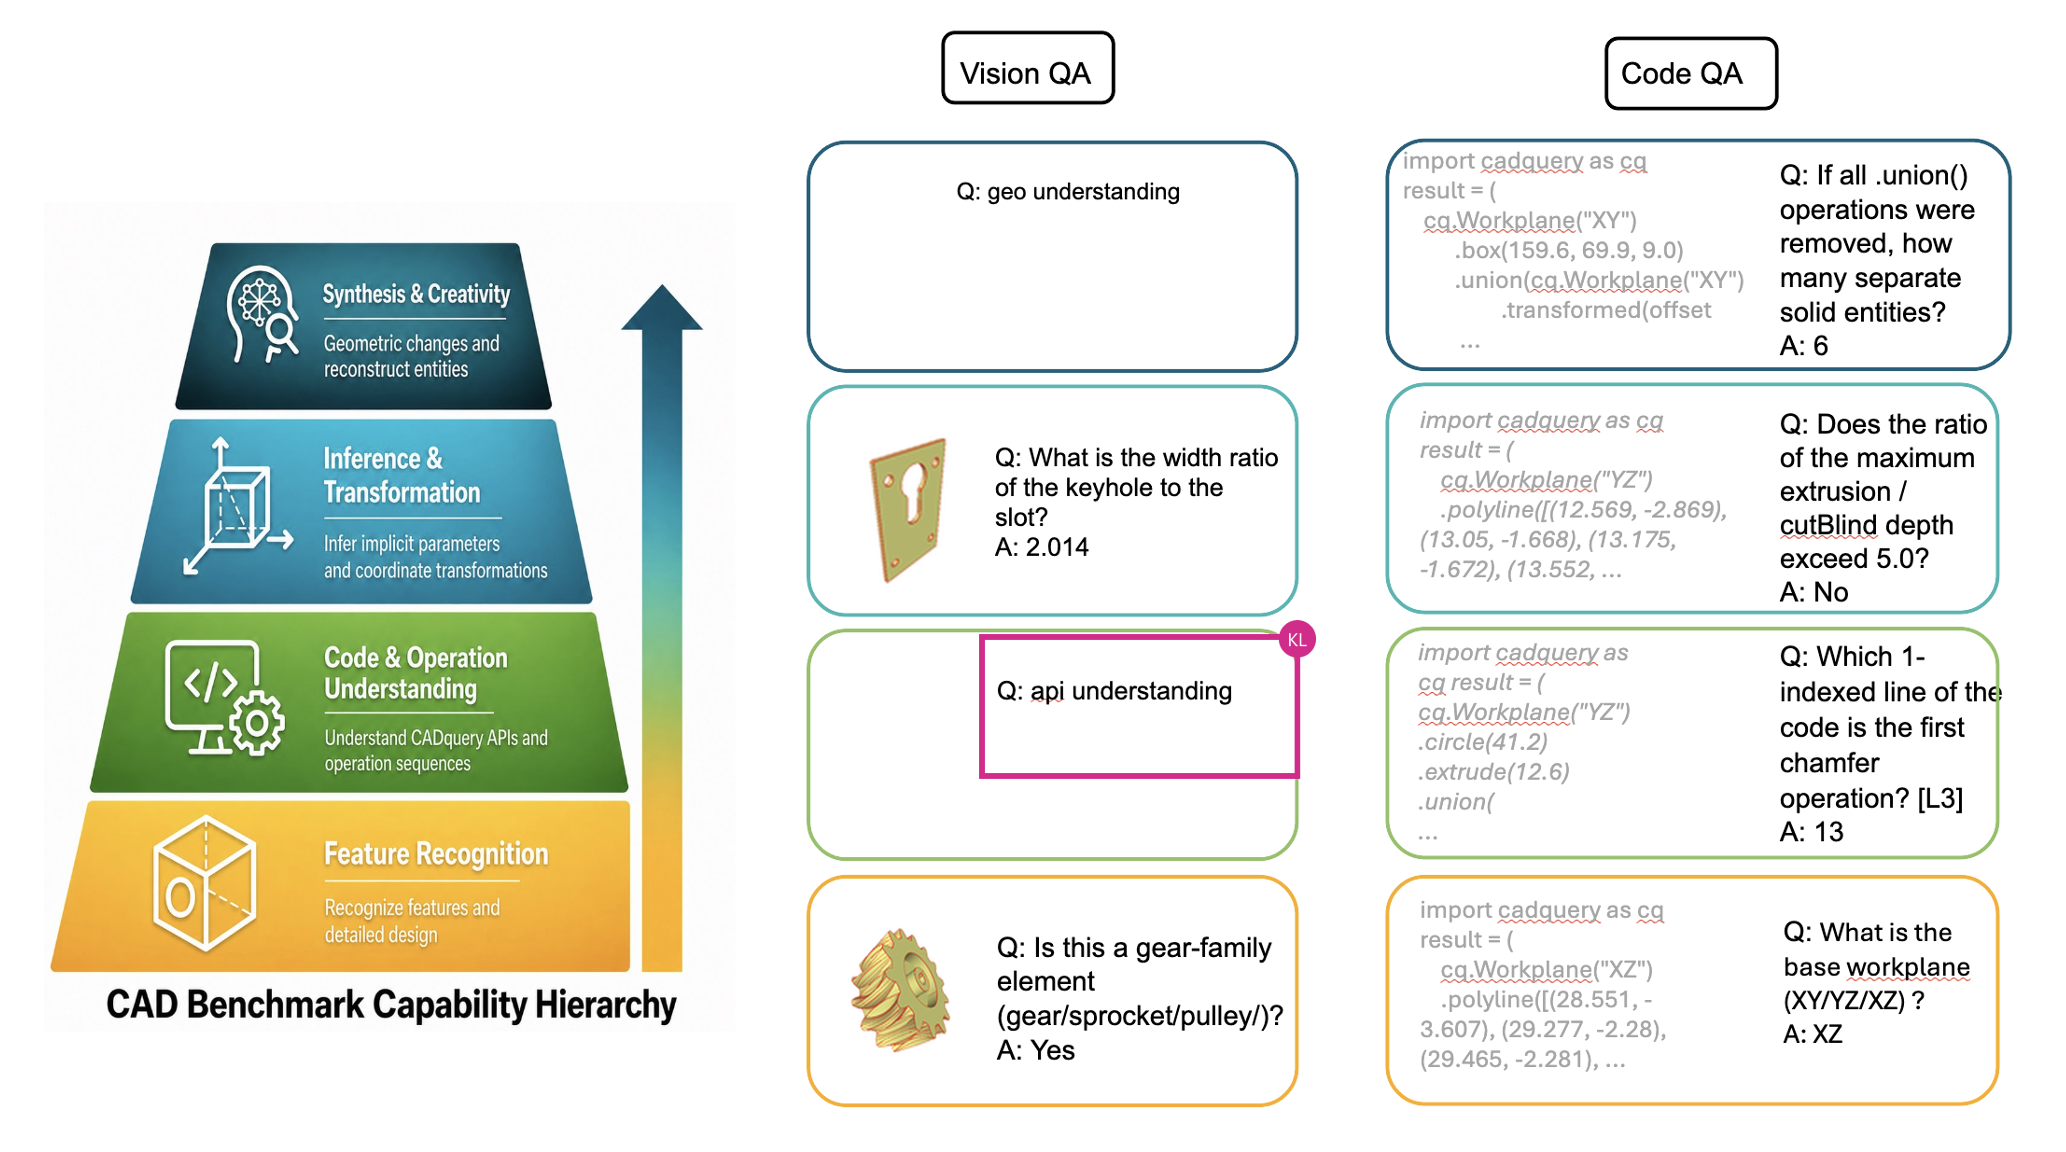
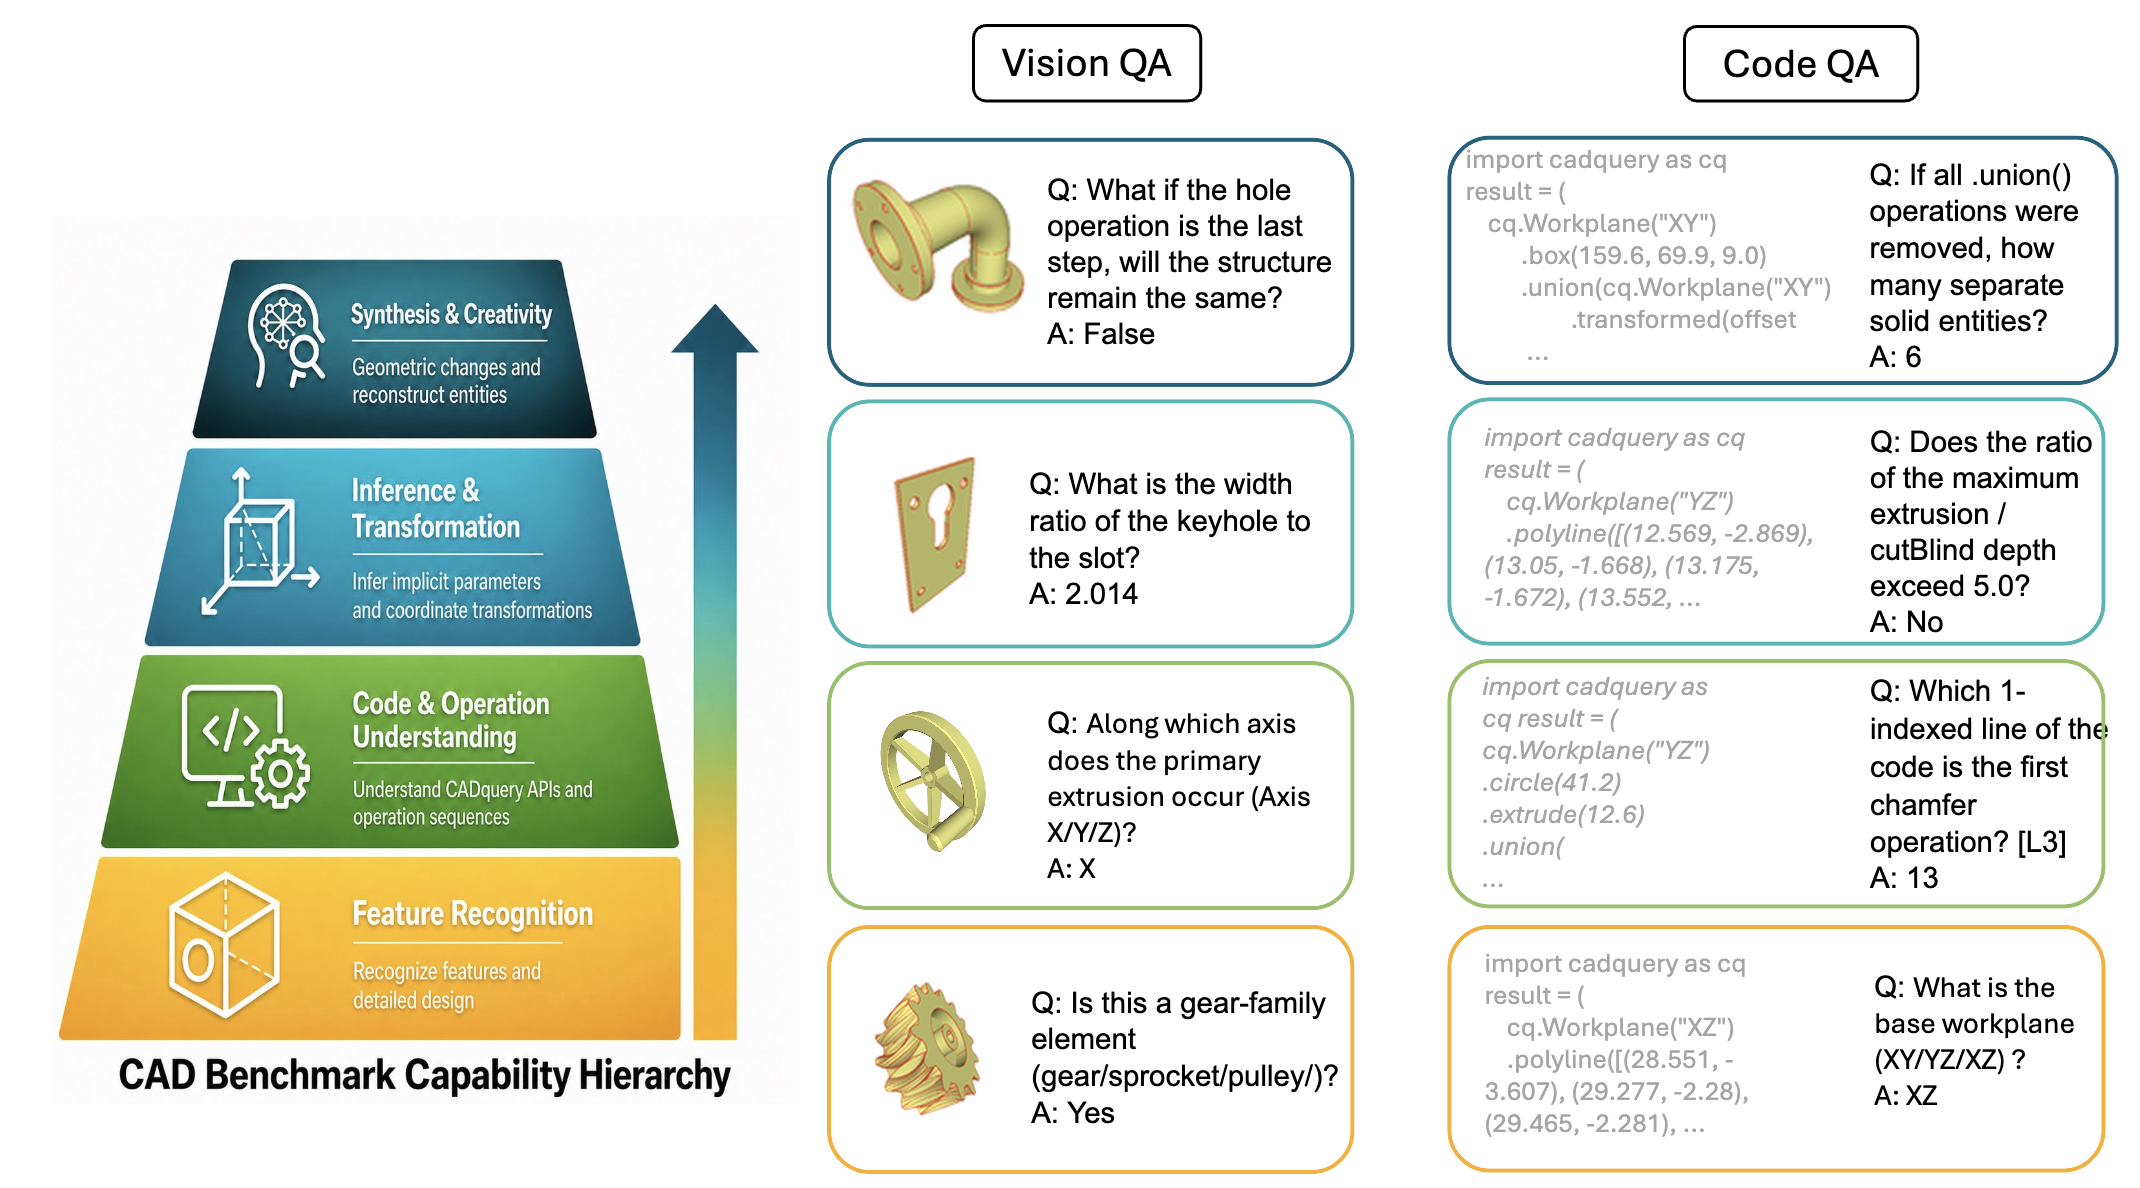
paper: Table 1 → appendix + 新 advantage table 替代 + abstract 紧 + fig_1/6 update
正文 Table 1 (tab_cmp_prior) → Appendix C "Full Comparison":
  原 11-列 prior CAD work 对比表移 appendix
  正文用新小表替代

新 tab_advantages (正文 §2 Related):
  3 列 (BenchCAD vs CADEvolve), 7 行
  突出 evaluation-side 优势:
    - 106 named industrial families vs 0 untyped
    - 47 ISO/DIN/EN/ASME/IEC codes vs 0
    - 748 verified before/after edit pairs vs --
    - 2,400 paired numeric QA vs --
    - capability-decomposed task suite vs --
    - rotation-/scale-invariant scoring vs --
  不跟 CADEvolve 比 raw IoU/coverage (打不过), 只比 benchmark-side 维度

abstract 更新:
  开篇换 "Industrial CAD demands ..." (sharper)
  加 "tasks correspond to stages of practising CAD-engineering work" (PANORAMA-inspired workflow framing)
  末加 "BenchCAD complements existing CAD-LM training corpora by providing the
    evaluation-side properties they do not" (positioning vs CADEvolve, collaborative)
  保留 3 diagnostic + sharper "envelope but not parametric structure" dichotomy

fig_1: 加 Expert workflow 标记 (industry standard → expert → 3D → expert → CadQuery)
fig_6: 4-level capability hierarchy 加更完整 QA 例子 (Vision QA + Code QA 各 4 级)

正文 = 10 页 (1-10), refs 11+, appendix 11+.
23 页编译干净, 0 undefined.

Changed region(s): [[0.031, 0.0, 0.9913, 1.0], [0.0, 0.8125, 0.031, 0.8438]]

diff --git a/paper/neurips_2026/tables/tab_advantages.tex b/paper/neurips_2026/tables/tab_advantages.tex
@@ -1,0 +1,20 @@
+\begin{table}[t]
+\centering
+\small
+\setlength{\tabcolsep}{6pt}
+\caption{\textbf{BenchCAD as an evaluation framework.} BenchCAD complements existing CAD-LM training corpora by providing the evaluation-side properties they do not: an industrial-family taxonomy with explicit functional identity, parameter anchoring against ISO/DIN/EN/ASME/IEC standard tables, verified before/after edit pairs with a non-target preservation metric, a paired numeric-QA bank, and a capability-decomposed scoring protocol. The rightmost column shows the strongest open CadQuery training corpus (CADEvolve, 2.7M scripts, DeepCAD image IoU 92.6) for reference; full per-axis comparison against all prior CAD code-generation work appears in Appendix~\ref{app:cmp_prior}.}
+\label{tab:advantages}
+\begin{tabular}{lcc}
+\toprule
+                                              & \textbf{BenchCAD (ours)} & CADEvolve~\citep{Elistratov2026} \\
+\midrule
+Primary purpose                               & evaluation benchmark    & training corpus + model \\
+Named industrial families                     & \textbf{106}            & 0 (untyped) \\
+ISO/DIN/EN/ASME/IEC standard codes            & \textbf{47}             & 0 \\
+Verified before/after edit pairs              & \textbf{748}            & --  \\
+Paired numeric QA questions                   & \textbf{2{,}400}        & --  \\
+Capability-decomposed task suite              & \textbf{\cmark}         & --  \\
+Rotation-invariant + scale-invariant scoring  & \textbf{\cmark}         & --  \\
+\bottomrule
+\end{tabular}
+\end{table}

diff --git a/paper/neurips_2026/sec/appendix.tex b/paper/neurips_2026/sec/appendix.tex
@@ -31,6 +31,13 @@ The CAD-Recode/cadrille/CADEvolve lineage~\citep{Rukhovich2025,Kolodiazhnyi2026,
 
 \paragraph{Why the gap is honest, not artefactual.} We replicate the lineage's render protocol (8-view 238$\times$238 grid; cube normalisation to $[-100, 100]^3$) for the transfer evaluation, eliminating mismatches in viewing geometry as a confound. We further verify that both checkpoints reach published IoU values on a held-out 200-sample DeepCAD slice within $\pm$0.5\,pt under our scoring infrastructure. The remaining gap on BenchCAD is therefore a true generalisation deficit: training corpora restricted to sketch+extrude (cadrille) or to sketch+extrude+revolve+fillet (CADEvolve) do not transfer to families requiring helical sweeps, parametric gear teeth, or DIN-anchored standard parts.
 
+\section{Full Comparison Against Prior CAD Code-Generation Work}
+\label{app:cmp_prior}
+
+Table~\ref{tab:cmp_prior} provides the full per-axis comparison referenced in \S\ref{sec:related}, including all evaluation-side properties (\#Industrial families, \#Std codes, \#Distinct CQ ops, Adv ops, Edit / QA tasks, \#Eval models) across DeepCAD, Fusion360 Gallery, Text2CAD, CADPrompt, CAD-Coder, CAD-Recode, cadrille, and CADEvolve.
+
+\input{tables/tab_cmp_prior}
+
 \section{Standard Codes Covered}
 \label{app:standards}
 

diff --git a/paper/neurips_2026/sec/related.tex b/paper/neurips_2026/sec/related.tex
@@ -11,6 +11,6 @@ A parallel research program has driven the recent state of the art in CadQuery c
 CADCodeVerify~\citep{Alrashedy2025} introduces \textbf{CADPrompt}, the first quantitative CAD code-generation benchmark --- 200 natural-language prompts paired with expert CadQuery code, scored via point-cloud distance and bounding-box IoU after ICP alignment. Despite establishing a useful protocol, CADPrompt is two orders of magnitude smaller than BenchCAD's verified split (17{,}900), lacks family taxonomy or difficulty stratification, leaks scale via absolute millimetre cues in prompts, and uses axis-aligned IoU that penalises geometrically correct but axis-permuted solutions. Two concurrent editing-focused works leave complementary gaps: CAD-Editor~\citep{CADEditor2025} proposes a locate-then-infill pipeline trained entirely on synthetic edit data without releasing a held-out human-verified edit benchmark, and CADialogue~\citep{CADialogue2025} evaluates ten edit tasks within a conversational interface but does not release the eval set publicly. HistCAD~\citep{Dong2026} measures the preservation of ten geometric-constraint types under edits via a FreeCAD edit-then-check protocol, but operates at the sketch-constraint level rather than at the executable-program level. To our knowledge, BenchCAD-Edit is the first publicly released CAD benchmark to combine: (i) execution-verified before/after CadQuery code pairs, (ii) a non-target preservation metric distinguishing target-feature success from program-wide locality, and (iii) cross-family balanced coverage with explicit edit-category taxonomy.
 
 \paragraph{Position of BenchCAD.}
-We borrow four structural patterns from recent benchmark methodology in adjacent domains: explicit task taxonomy with per-task representative items (MMSI-Bench~\citep{MMSIBench2026}), Lite + Full split design for differentiated evaluation cost (AutoCodeBench~\citep{Chou2026}), a small set of named, quantitative findings as the paper's punch line (Infinity-Chat~\citep{Hivemind2025}), and \emph{decomposition of an end-to-end professional process into sequential capability-isolating sub-tasks} (PANORAMA~\citep{PANORAMA2025}, which decomposes patent examination into prior-art retrieval, patentability identification, and novelty/obviousness characterization to expose where LLMs fail along the workflow). Within CAD code generation specifically, BenchCAD takes a position distinct from the CadQuery-VLM lineage: rather than releasing yet another training corpus to fine-tune a small CAD-specialised model, we provide a \emph{unified, capability-decomposed evaluation framework} intended to measure large-model CAD reasoning across both today's frontier MLLMs and future CAD agents. Concretely, BenchCAD is the first public CAD benchmark to combine four properties simultaneously: (i) \emph{execution-verified at scale} (17{,}900 parts at IoU $\geq 0.99$), (ii) \emph{standard-anchored} (49\% of families bound to ISO/DIN/EN/ASME/IEC specification tables, supporting industry-grade rather than toy-shape evaluation), (iii) \emph{operation-rich} (45+ CadQuery operations covering all four advanced families that even CADEvolve still misses), and (iv) \emph{capability-decomposed} (five tasks with two image/code matched-contrast pairs that isolate visual reconstruction, parametric abstraction, and code synthesis, including the first verified parametric edit task). Table~\ref{tab:cmp_prior} summarises this comparison.
+We borrow four structural patterns from recent benchmark methodology in adjacent domains: explicit task taxonomy with per-task representative items (MMSI-Bench~\citep{MMSIBench2026}), Lite + Full split design for differentiated evaluation cost (AutoCodeBench~\citep{Chou2026}), a small set of named, quantitative findings as the paper's punch line (Infinity-Chat~\citep{Hivemind2025}), and \emph{decomposition of an end-to-end professional process into sequential capability-isolating sub-tasks} (PANORAMA~\citep{PANORAMA2025}, which decomposes patent examination into prior-art retrieval, patentability identification, and novelty/obviousness characterization to expose where LLMs fail along the workflow). Within CAD code generation specifically, BenchCAD takes a position distinct from the CadQuery-VLM lineage: rather than releasing yet another training corpus to fine-tune a small CAD-specialised model, we provide a \emph{unified, capability-decomposed evaluation framework} intended to measure large-model CAD reasoning across both today's frontier MLLMs and future CAD agents. Concretely, BenchCAD is the first public CAD benchmark to combine four properties simultaneously: (i) \emph{execution-verified at scale} (17{,}900 parts at IoU $\geq 0.99$), (ii) \emph{standard-anchored} (49\% of families bound to ISO/DIN/EN/ASME/IEC specification tables, supporting industry-grade rather than toy-shape evaluation), (iii) \emph{operation-rich} (45+ CadQuery operations including helical sweeps and parametric involute-gear construction that prior corpora omit), and (iv) \emph{capability-decomposed} (five tasks with two image/code matched-contrast pairs that isolate visual reconstruction, parametric abstraction, and code synthesis, including the first verified parametric edit task). Table~\ref{tab:advantages} summarises the evaluation-side properties BenchCAD adds; the full per-axis comparison against all prior CAD code-generation work appears in Appendix~\ref{app:cmp_prior}.
 
-\input{tables/tab_cmp_prior}
+\input{tables/tab_advantages}

diff --git a/paper/neurips_2026/main.tex b/paper/neurips_2026/main.tex
@@ -36,7 +36,7 @@
 \maketitle
 
 \begin{abstract}
-Computer-aided design (CAD) demands a difficult fusion of complex spatial understanding, parametric computation, and program synthesis: producing executable CAD code that meets industry tolerances, feature detail, and the implicit engineering conventions that distinguish industrial parts from primitive geometry requires a model to read 3D geometry, abstract it into parametric structure, and emit syntactically valid programs. Frontier multimodal language models show nascent capability along each of these axes individually --- 3D and spatial reasoning, multi-step reasoning, and code generation --- yet their joint alignment for industrial CAD remains under-evaluated, and no public benchmark currently measures these capabilities in a systematic, capability-decomposed way that reflects how industry actually uses CAD: most components are variants of a small set of standard part families, and most engineering work is editing an existing parametric program rather than authoring a greenfield one. We present \textbf{BenchCAD}, a unified, capability-decomposed evaluation framework for large-model CAD reasoning, designed to evaluate and help strengthen these emerging capabilities toward industry-grade work. The dataset contains 17{,}900 execution-verified CadQuery parts across 106 industrial part families (49\% anchored to 47 ISO/DIN/EN/ASME/IEC specification codes covering twist drills, bevel gears, compression springs, roller chains, and threaded fittings), exercising 45+ distinct CadQuery operations including helical sweeps, lofts, twist-extrudes, and parametric involute-gear construction. Atop this dataset we define four evaluation task categories --- image-to-code generation, image- and code-conditioned numeric QA, and instruction-guided editing with verified before/after pairs and a non-target preservation metric --- where score differences across paired image/code tasks isolate which sub-capability (visual perception, geometric-to-parametric abstraction, or code synthesis) contributes most to a model's remaining gap. Across 10+ frontier models we identify three diagnostic phenomena that highlight concrete capability dimensions for further research and training innovation: a 15--20 point \emph{Vision Bottleneck} between code- and image-conditioned numeric QA that persists under chain-of-thought, parameter scaling from 1B to 78B, and view-count augmentation; a 64\% \emph{Edit Leakage} rate on nominally successful edits where unrelated parametric features are silently corrupted; and an \emph{Op Vocabulary Gap} where matched-compute SFT on sketch+extrude data alone yields zero recall on essential operations until BenchCAD-Synth enters the training mix. A consistent dichotomy emerges across these diagnostics: today's frontier models can recover the outer envelope of an industrial part but not the parametric structure underlying it. These findings map both the current state of frontier capability and the focused improvements needed to reach industry-grade CAD generation. Released under CC-BY-4.0 at \url{huggingface.co/BenchCAD}.
+Industrial computer-aided design (CAD) demands the fusion of complex spatial understanding, parametric computation, and program synthesis: producing executable code that satisfies industry tolerances, feature detail, and the unwritten engineering conventions that distinguish a manufacturable part from primitive geometry. Frontier multimodal language models show nascent capability along each of these axes individually --- 3D and spatial reasoning, multi-step reasoning, and code generation --- yet their joint alignment for industrial CAD remains under-evaluated. We present \textbf{BenchCAD}, a unified, capability-decomposed evaluation framework whose tasks correspond to stages of practising CAD-engineering work (read a drawing, interrogate a parametric program, modify it under instruction). The dataset contains 17{,}900 execution-verified CadQuery parts across 106 industrial part families anchored to 47 ISO/DIN/EN/ASME/IEC specification codes (twist drills, bevel gears, compression springs, roller chains, threaded fittings), exercising 45+ distinct CadQuery operations including helical sweeps, lofts, twist-extrudes, and parametric involute-gear construction. Four task categories --- image-to-code, image- and code-conditioned numeric QA, and instruction-guided editing with verified before/after pairs and a non-target preservation metric --- decompose the image$\to$code pipeline so that score differences between paired tasks isolate which sub-capability (visual perception, geometric-to-parametric abstraction, or code synthesis) drives a model's remaining gap. Across 10+ frontier models we identify three diagnostic phenomena: a 15--20 point \emph{Vision Bottleneck} between code- and image-conditioned QA that persists under chain-of-thought, parameter scaling from 1B to 78B, and view-count augmentation; a 64\% \emph{Edit Leakage} rate on nominally successful edits where unrelated parametric features are silently corrupted; and an \emph{Op Vocabulary Gap} where matched-compute SFT on sketch+extrude data alone yields zero recall on essential operations until BenchCAD-Synth enters the training mix. A consistent dichotomy emerges: today's frontier models recover the outer envelope of an industrial part but not the parametric structure underlying it. BenchCAD complements existing CAD-LM training corpora by providing the evaluation-side properties they do not --- industrial-family taxonomy, standard-table anchoring, verified edit pairs, paired-task capability decomposition, and rotation- and scale-invariant scoring. Released under CC-BY-4.0 at \url{huggingface.co/BenchCAD}.
 \end{abstract}
 
 \input{sec/intro}